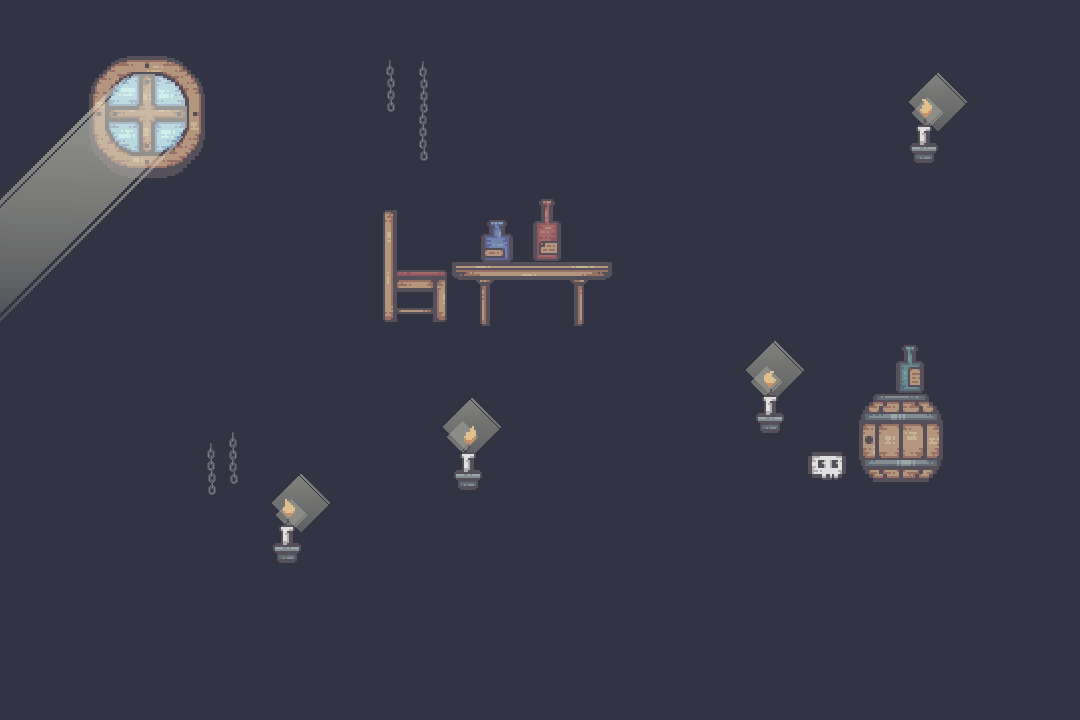
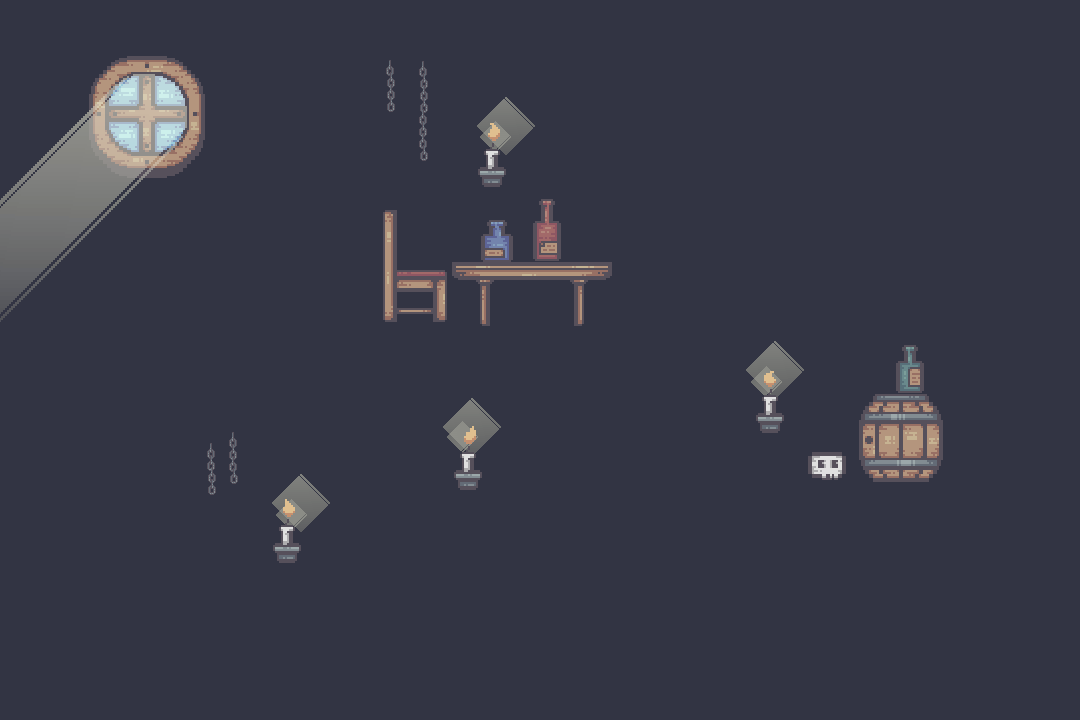
Ajout de la porte

Changed region(s): [[0.825, 0.0917, 0.9167, 0.2444], [0.4278, 0.1222, 0.4889, 0.275]]

diff --git a/src/door.py b/src/door.py
@@ -1,3 +1,4 @@
+import pygame
 from model.event_box import EventBox
 
 
@@ -6,17 +7,19 @@ class Door(EventBox):
     Porte qui permet de passer au niveau suivant.
     Se déclanche lorsque le joueur est entré en collision avec.
 
-    Propriétés:
+    Paramètres:
+    - scene: scene où se trouve la porte
     - x, y: position de la porte
-    - width, height: taille de la porte
     - groups: tuple groupe auquel de la porte appartient
     """
 
-    def __init__(self, scene, x, y, width, height, groups):
+    def __init__(self, scene, x, y, groups):
         self.scene = scene
-        super().__init__(x, y, width, height, (self.scene.player_group, self.scene.enemy_group), groups)
+        self.image_closed = pygame.image.load("assets/door-closed.png").convert_alpha()
+        self.image_open = pygame.image.load("assets/door-open.png").convert_alpha()
         self.locked = False
-        self.set_locked(True)
+
+        super().__init__(x, y, "assets/door-closed.png", (self.scene.player_group, self.scene.enemy_group), groups)
 
     def on_collision(self, entity):
         """
@@ -36,6 +39,6 @@ class Door(EventBox):
         """
         self.locked = state
         if self.locked:
-            self.image.fill((225, 0, 0))
+            self.image = self.image_closed
         else:
-            self.image.fill((155, 155, 0))
+            self.image = self.image_open

diff --git a/src/scenes/level1.py b/src/scenes/level1.py
@@ -74,15 +74,13 @@ class Level1(Level):
             self.map_group,
         )
 
-        # # Porte
-        # Door(
-        #     self,
-        #     30,
-        #     SCREEN_HEIGHT - 60,
-        #     50,
-        #     50,
-        #     (self.event_box_group, self.door_group)
-        # )
+        # Porte
+        Door(
+            self,
+            856,
+            96,
+            (self.event_box_group, self.door_group)
+        )
 
         w1 = Weapon(cadence=1500, recoil=3, damage=100)
         Player(self, 140, 470, 1, self.player_group, weapon=w1)
@@ -105,4 +103,4 @@ class Level1(Level):
 
     def next_level(self):
         self.is_finished = True
-        self.next_scene = None
+        self.next_scene = self

diff --git a/src/model/event_box.py b/src/model/event_box.py
@@ -9,14 +9,14 @@ class EventBox(Block):
 
     Paramètres:
         - x, y: coordonnées du sprite
-        - width, height: dimensions du sprite
+        - image: image du sprite
         - watch_groups: liste des groupes à surveiller
         - groups: liste des groupes dans lesquels le sprite est ajouté
 
     """
 
-    def __init__(self, x, y, width, height, watch_groups, groups):
-        super().__init__(x, y, width, height, (150, 150, 0), groups, 1)
+    def __init__(self, x, y, image, watch_groups, groups):
+        super().__init__(x, y, image, groups, 1)
         self.watch_groups = watch_groups
 
     def update(self):
